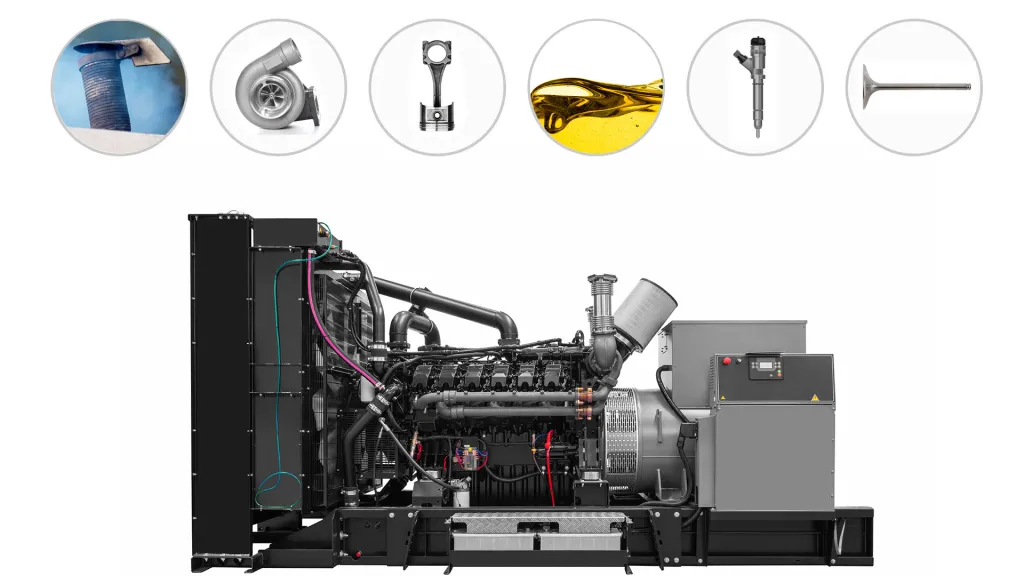
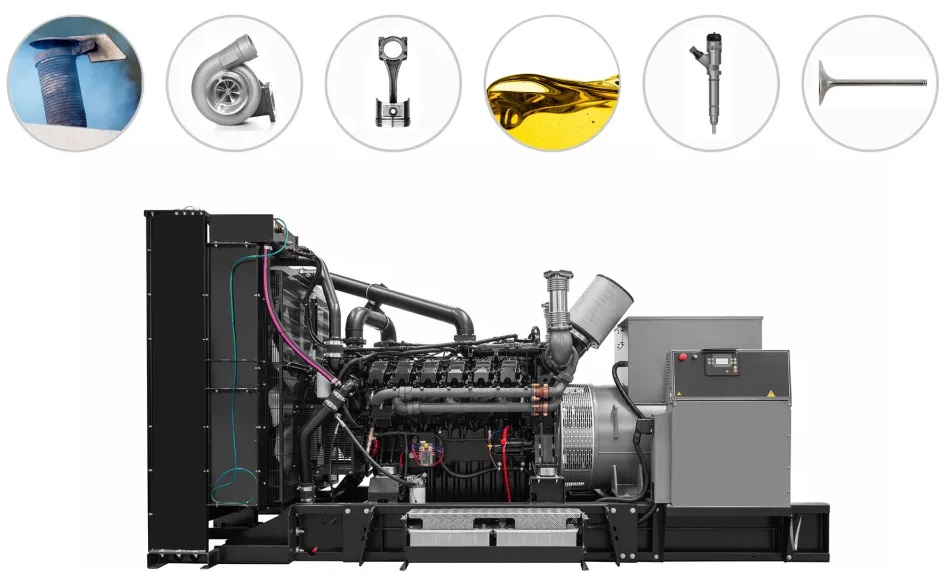
msg

diff --git a/styles.css b/styles.css
@@ -104,3 +104,29 @@ margin-top: 300px;
             padding: 5px;
             color: white;
       }
+.body0{
+  align-items: center;
+  display: flex;
+  justify-content: space-between;
+  border: black;
+  border-width: 10px;
+}
+.body1{
+  border: 5px solid red;
+  height: 700px;
+  width: 250px;;
+
+}
+.body2{
+  border-color:rebeccapurple;
+  border: 5px solid red;
+  height: 700px;
+  
+  
+}
+.body3{
+  border: 5px solid red;
+  height: 700px;
+  width: 250px;
+
+}

diff --git a/index.html b/index.html
@@ -50,8 +50,18 @@
                     </div>
 </div>      
 <!-- BODY -->
-<div class="body">
-    <img  style="margin-left: 200px;" height="700px" width="80%" src="images/generator.jpg" alt=""> 
+<div class="body0">
+    i
+    <div class="body1"></div>
+    <div>
+
+    </div>
+    <div class="body2">
+        <img  height="700px"  src="images/generator.jpg" alt="">
+    </div>
+    <div class="body3">
+
+ </div> 
       
 
 </div>
